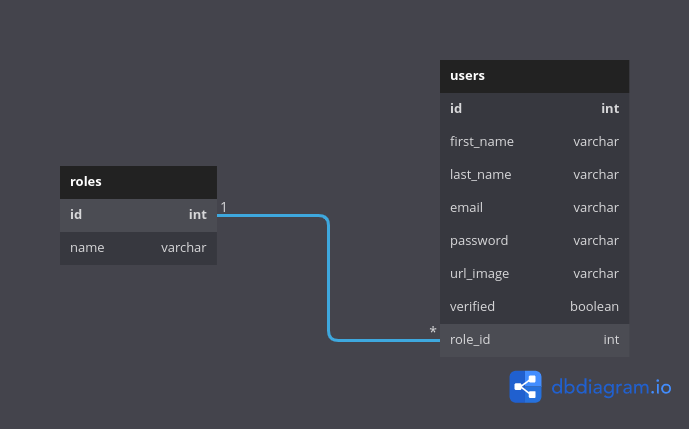
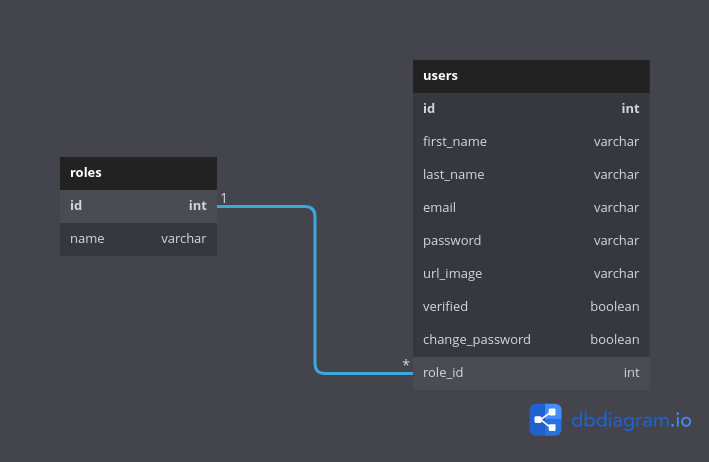
cambio de contraseña mejorado

diff --git a/server/src/routes/auth.py b/server/src/routes/auth.py
@@ -47,7 +47,6 @@ def login(user: UserLoginModel):
 
         return {"token": token}
     except Exception as error:
-        print(error)
         raise HTTPException(
             status_code=500, detail="Error al iniciar sesión. Inténtelo en otro momento.")
 
@@ -86,7 +85,6 @@ def user_register(user: UserRegisterModel):
 
         return {"detail": "Cuenta registrada. Te enviamos un email para validar tu correo."}
     except Exception as error:
-        print(error)
         raise HTTPException(
             status_code=500, detail="Error al crear la cuenta. Inténtelo en otro momento.")
 
@@ -105,7 +103,6 @@ def account_verification(user_id: str):
 
         return RedirectResponse(f"{frontend_url}/success/cuenta-verificada")
     except Exception as error:
-        print(error)
         return RedirectResponse(f"{frontend_url}/error/error-verificacion")
 
 
@@ -124,24 +121,50 @@ def password_recovery(user: UserPasswordRecoveryModel):
 
     try:
         mail_content = f'''
-            <a href="{frontend_url}/new-password/{user_found[0]}">Presiona aquí para recuperar tu contraseña!</a>
+            <a href="{backend_url}/api/auth/authorized-password-change/{user_found[0]}">Presiona aquí para recuperar tu contraseña!</a>
         '''
         send_email(receiver_address=user.email,
                    mail_content=mail_content, subject="Restaurar contraseña.")
 
         return {"detail": "Te envíamos un correo para poder restaurar tu contraseña."}
     except Exception as error:
-        print(error)
         raise HTTPException(
             status_code=500, detail="Error al restaurar la contraseña.")
+
+
+@router.get("/authorized-password-change/{user_id}", status_code=200)
+def authorized_password_change(user_id: int):
+    cur.execute("SELECT * FROM users WHERE id = %s", [user_id])
+    user_found = cur.fetchone()
+
+    if user_found == None:
+        return RedirectResponse(f"{frontend_url}/error/user-not-found")
+
+    try:
+        cur.execute("UPDATE users SET change_password = %s WHERE id = %s", [
+            True, user_id])
+        conn.commit()
+
+        return RedirectResponse(f"{frontend_url}/new-password/{user_id}")
+    except Exception as error:
+        raise HTTPException(
+            status_code=500, detail="Hubo un error al intentar cambiar su contraseña.")
 
 
 @router.post("/change-password/{user_id}", status_code=200)
 def change_password(user_id: int, user: UserChangePasswordModel):
     cur.execute("SELECT * FROM users WHERE id = %s", [user_id])
-    if cur.fetchone() == None:
+    user_found = cur.fetchone()
+    if user_found == None:
         raise HTTPException(
             status_code=404, detail="Error al cambiar la contraseña. Usuario no encontrado.")
+
+    if user_found[6] == False:
+        raise HTTPException(status_code=401, detail="Cuenta no verificada.")
+
+    if user_found[7] == False:
+        raise HTTPException(
+            status_code=401, detail="Error al cambiar la contraseña.")
 
     if user.password != user.confirm_password:
         raise HTTPException(
@@ -149,12 +172,11 @@ def change_password(user_id: int, user: UserChangePasswordModel):
 
     try:
         hashed_password = encrypt_password(password=user.password)
-        cur.execute("UPDATE users SET password = %s WHERE id = %s",
-                    [hashed_password, user_id])
+        cur.execute("UPDATE users SET password = %s, change_password = %s WHERE id = %s",
+                    [hashed_password, False, user_id])
         conn.commit()
 
         return {"detail": "Su contraseña se actualizó con éxito."}
     except Exception as error:
-        print(error)
         raise HTTPException(
             status_code=500, detail="Hubo un error al intentar cambiar su contraseña.")

diff --git a/server/src/routes/users.py b/server/src/routes/users.py
@@ -11,7 +11,7 @@ router = APIRouter(
 @router.get("/", status_code=200)
 def get_users():
     try:
-        cur.execute("SELECT users.id, users.first_name, users.last_name, users.email, users.password, users.url_image, users.verified, roles.id, roles.name FROM users JOIN roles ON roles.id = users.role_id")
+        cur.execute("SELECT users.id, users.first_name, users.last_name, users.email, users.password, users.url_image, users.verified, users.change_password, roles.id, roles.name FROM users JOIN roles ON roles.id = users.role_id")
         users = cur.fetchall()
 
         data = []
@@ -24,14 +24,14 @@ def get_users():
                 "password": user[4],
                 "url_image": user[5],
                 "verified": user[6],
+                "change_password": user[7],
                 "role": {
-                    "id": user[7],
-                    "name": user[8]
+                    "id": user[8],
+                    "name": user[9]
                 }
             })
 
         return {"data": data}
     except Exception as error:
-        print(error)
         raise HTTPException(
             status_code=500, detail="Error al listar los usuarios.")

diff --git a/server/src/routes/roles.py b/server/src/routes/roles.py
@@ -25,7 +25,6 @@ def get_roles():
 
         return {"data": data}
     except Exception as error:
-        print(error)
         raise HTTPException(
             status_code=500, detail="Error al listar los roles.")
 
@@ -52,7 +51,6 @@ def create_role(role: RolBaseModel):
 
         return {"data": data}
     except Exception as error:
-        print(error)
         raise HTTPException(status_code=500, detail="Error al crear el rol.")
 
 
@@ -74,7 +72,6 @@ def delete_role(role_id: int):
 
         return {"data": data}
     except Exception as error:
-        print(error)
         raise HTTPException(
             status_code=500, detail="Error al eliminar el rol.")
 
@@ -98,6 +95,5 @@ def update_role(role_id: int, role: RolBaseModel):
 
         return {"data": data}
     except Exception as error:
-        print(error)
         raise HTTPException(
             status_code=500, detail="Error al actualizar el rol.")
